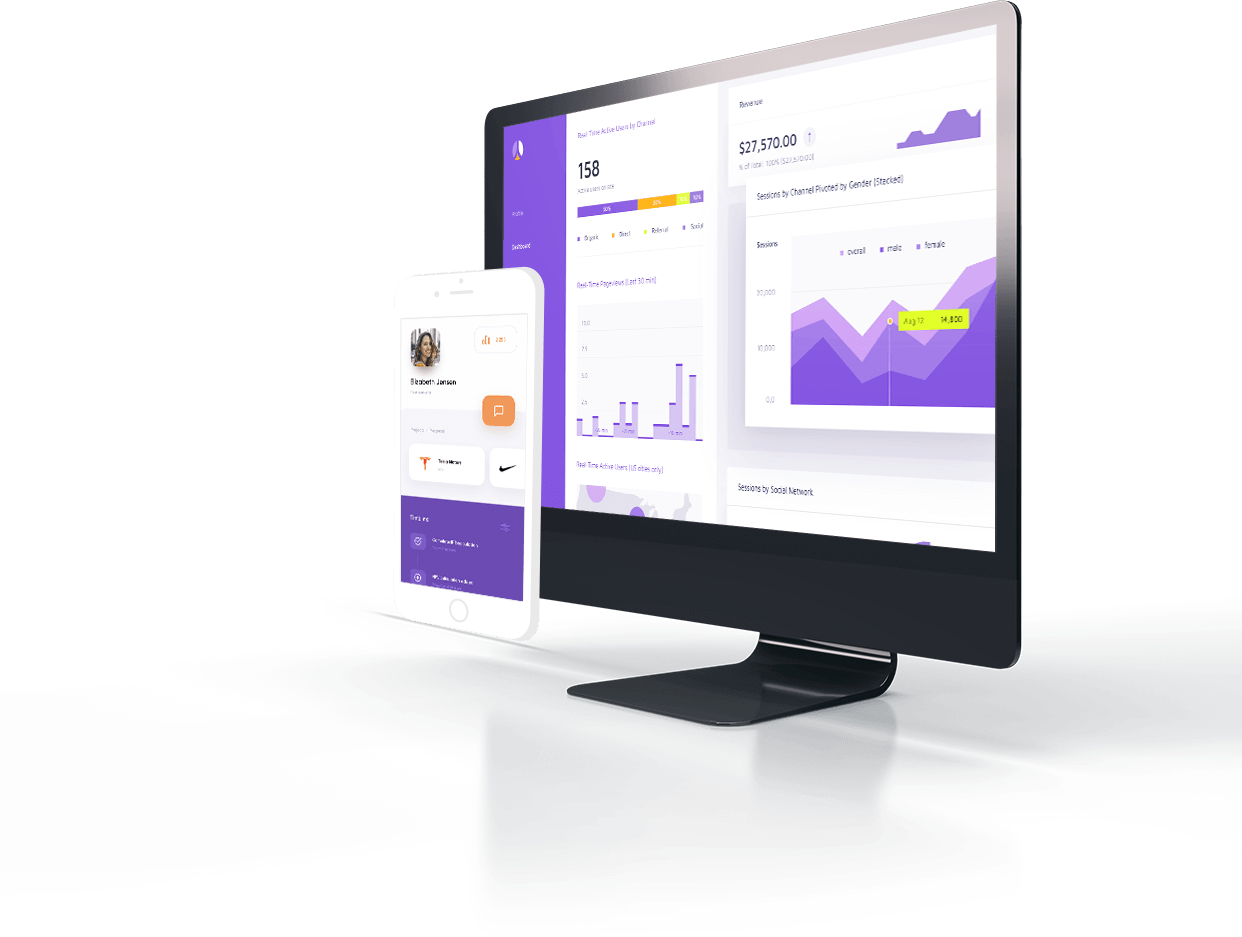
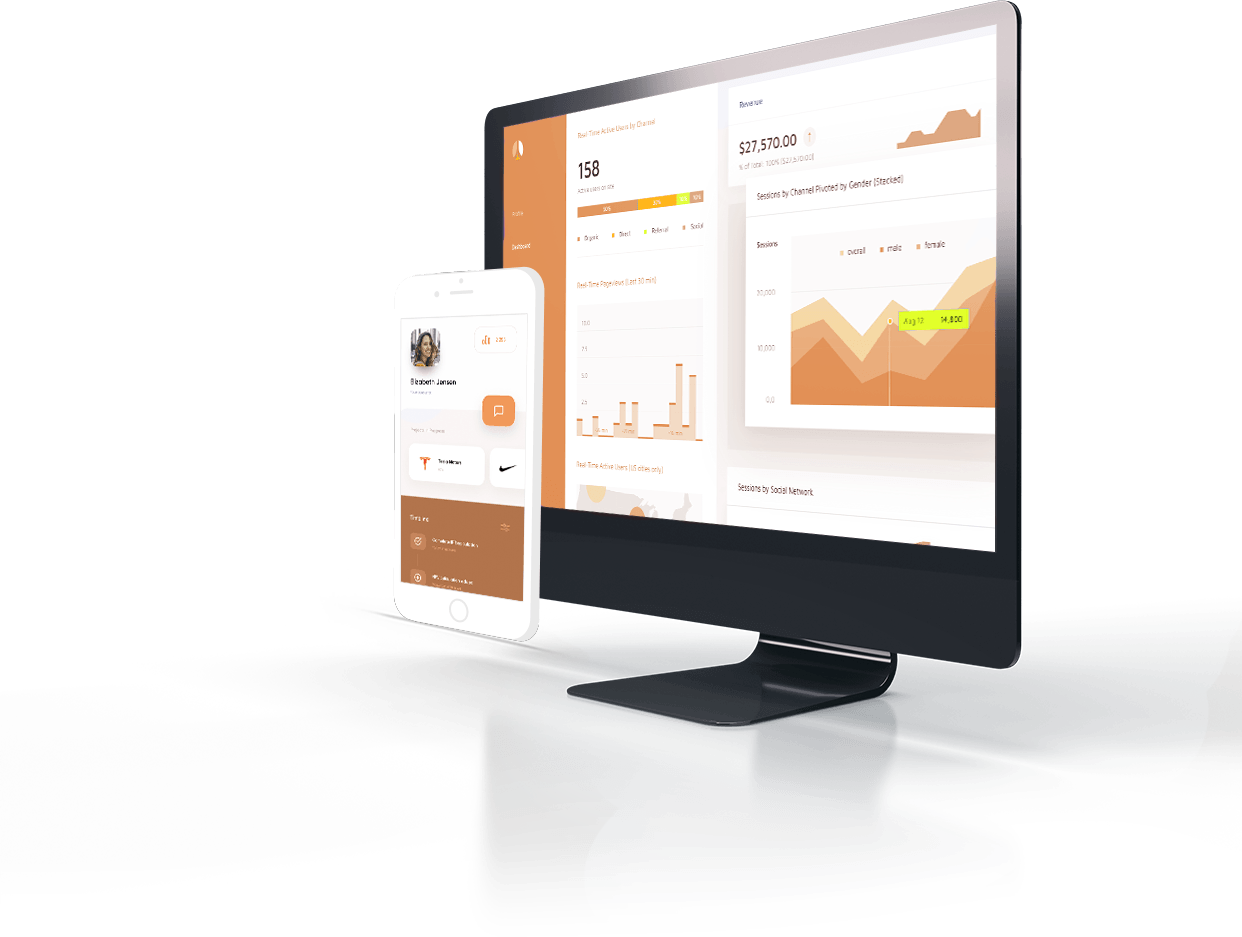
dd

diff --git a/pov-nextjs-main/src/styles/style.css b/pov-nextjs-main/src/styles/style.css
@@ -150,7 +150,7 @@ a:visited {
 }
 .block-title__title {
   margin: 0;
-  margin-top: -10px;
+  /* margin-top: -10px; */
   font-size: 60px;
   font-family: "spartan_mbextrabold";
   letter-spacing: -0.04em;
@@ -162,7 +162,7 @@ a:visited {
   cursor: pointer;
   display: inline-block;
   vertical-align: middle;
-  background-color: #f7c324;
+  background-color: #EDE0D0;
   color: #252758;
   font-size: 14px;
   font-family: "spartan_mbbold";
@@ -173,7 +173,7 @@ a:visited {
   transition: all 0.4s ease;
 }
 .thm-btn:hover {
-  background-color: #252758;
+  background-color: #331c2b;
   color: #fff;
 }
 
@@ -260,7 +260,7 @@ a:visited {
   display: inline-block;
   width: 45px;
   height: 45px;
-  background: #a461e5;
+  background: #331C2B;
   position: fixed;
   bottom: 40px;
   right: 40px;
@@ -371,7 +371,7 @@ a:visited {
 }
 .header-navigation ul.navigation-box > li.current > a,
 .header-navigation ul.navigation-box > li:hover > a {
-  color: #f7c324;
+  color: #eacca6;
 }
 .header-navigation ul.navigation-box > li > .sub-menu {
   position: absolute;
@@ -535,20 +535,21 @@ a:visited {
   left: 0;
   width: 100%;
   z-index: 999;
-  background-image: -webkit-gradient(
+  /* background-image: -webkit-gradient(
     linear,
     left top,
     right top,
     from(#5128c4),
     color-stop(50%, #7541d1),
     to(#b16aeb)
-  );
-  background-image: linear-gradient(
+  ); */
+  /* background-image: linear-gradient(
     90deg,
     #5128c4 0%,
     #7541d1 50%,
     #b16aeb 100%
-  );
+  ); */
+  background-color: #331C2B;
   -webkit-box-shadow: 0px 6px 13px 0px rgba(0, 0, 0, 0.06);
   box-shadow: 0px 6px 13px 0px rgba(0, 0, 0, 0.06);
   opacity: 0;
@@ -572,13 +573,14 @@ a:visited {
 * 4. banner styles
 */
 .banner-one {
-  background: transparent url(/assets/images/banner-1-1.png) top right
-    no-repeat;
+  /* background: transparent url(/assets/images/banner-1-1.png) top right
+    no-repeat; */
   background-size: cover;
   position: relative;
   padding-top: 274px;
   padding-bottom: 515px;
   z-index: 11;
+  background-color: #331C2B;
 }
 .banner-one__globe {
   position: absolute;
@@ -643,7 +645,7 @@ a:visited {
 }
 .banner-one__tag-line a {
   display: inline-block;
-  background-color: #f7c324;
+  background-color: #EDE0D0;
   color: #252758;
   line-height: 32px;
   padding: 0 20px;
@@ -865,20 +867,21 @@ a:visited {
   overflow: hidden;
   border-radius: 15px;
   position: relative;
-  background-image: -webkit-gradient(
+  background-color: #331c2b;
+   /* background-image: -webkit-gradient(
     linear,
     left top,
     right top,
     from(#5128c4),
     color-stop(50%, #7541d1),
     to(#b16aeb)
-  );
+  ); */
   background-image: linear-gradient(
     90deg,
-    #5128c4 0%,
-    #7541d1 50%,
-    #b16aeb 100%
-  );
+    #402c39 0%,
+    #331c2b 50%,
+    #331c2b 100%
+  ); 
 }
 .blog-one__image > img {
   width: 100%;
@@ -940,7 +943,7 @@ a:visited {
 .blog-one__meta-sep,
 .blog-one__meta-link {
   font-size: 14px;
-  color: #a461e5;
+  color: #331c2b;
   font-family: "spartan_mbbold";
   -webkit-transition: all 0.4s ease;
   transition: all 0.4s ease;
@@ -964,7 +967,7 @@ a:visited {
   transition: all 0.4s ease;
 }
 .blog-one__title a:hover {
-  color: #a461e5;
+  color: #331c2b;
 }
 .blog-one__blog-page {
   padding-bottom: 120px;
@@ -1455,7 +1458,7 @@ a:visited {
   content: "";
   width: 755px;
   height: 755px;
-  border: 130px solid #f7c324;
+  border: 130px solid #331C2B;
   position: absolute;
   top: -40%;
   left: 75%;
@@ -1521,12 +1524,12 @@ a:visited {
   font-size: 14px;
 }
 .site-footer__copytext a {
-  color: #a461e5;
+  color: #331c2b;
   -webkit-transition: all 0.4s ease;
   transition: all 0.4s ease;
 }
 .site-footer__copytext a:hover {
-  color: #f7c324;
+  color: #252758;
 }
 .site-footer__social {
   display: -webkit-box;
@@ -1638,8 +1641,9 @@ a:visited {
 * 8. inner-banner styles
 */
 .inner-banner {
-  background: #a461e5 url(/assets/images/inner-banner-bg-1-1.jpg) center
-    center no-repeat;
+  /* background: #a461e5 url(/assets/images/inner-banner-bg-1-1.jpg) center
+    center no-repeat; */
+    background-color: #331C2B;
   background-size: cover;
   padding-top: 220px;
   padding-bottom: 120px;
@@ -1957,20 +1961,14 @@ a:visited {
   left: 0;
   width: 100%;
   height: 100%;
-  background-image: -webkit-gradient(
-    linear,
-    left top,
-    right top,
-    from(#5128c4),
-    color-stop(50%, #7541d1),
-    to(#b16aeb)
-  );
+  background-color: #331C2B;
   background-image: linear-gradient(
     90deg,
-    #5128c4 0%,
-    #7541d1 50%,
-    #b16aeb 100%
-  );
+    #402c39 0%,
+    #331c2b 50%,
+    #331c2b 100%
+  ); 
+  
   border-radius: 50%;
   -webkit-transform: scale(0, 0);
   transform: scale(0, 0);
@@ -2072,8 +2070,9 @@ a:visited {
 * 12. testimonials styles
 */
 .testimonials-one {
-  background: transparent url(/assets/images/testi-bg-1-1.png) bottom left
-    no-repeat;
+  /* background: transparent url(/assets/images/testi-bg-1-1.png) bottom left
+    no-repeat; */
+    background-color: #331C2B;
   background-size: cover;
   padding-top: 600px;
   padding-bottom: 110px;
@@ -2158,7 +2157,7 @@ a:visited {
   margin-right: 17px;
 }
 .testimonials-one__thumb{
-  background-color: white;
+  background-color: #331c2b;
   background-size: cover;
 }
 .testimonials-one__button-block {
@@ -2252,7 +2251,7 @@ width: 210px;
   content: "";
   width: 755px;
   height: 755px;
-  border: 130px solid #f7c324;
+  border: 130px solid #331C2B;
   position: absolute;
   top: -30%;
   right: 85%;
@@ -2289,8 +2288,8 @@ width: 210px;
   z-index: 11;
 }
 .pricing-one__single.popular .pricing-one__btn {
-  background-color: #f7c324;
-  border-color: #f7c324;
+  background-color: #EDE0D0;
+  /* border-color: #331C2B; */
   color: #252758;
 }
 .pricing-one__amount {
@@ -2355,8 +2354,8 @@ width: 210px;
   margin-top: 10px;
 }
 .pricing-one__btn:hover {
-  background-color: #f7c324;
-  border-color: #f7c324;
+  background-color: #EDE0D0;
+  border-color: #331C2B;
   color: #252758;
 }
 .pricing-one__tag-line {
@@ -2400,6 +2399,7 @@ width: 210px;
 * 14. service styles
 */
 .service-one {
+  /* background-color: #EDE0D0; */
   position: relative;
   margin-bottom: -360px;
   z-index: 10;
@@ -2408,7 +2408,7 @@ width: 210px;
   content: "";
   width: 755px;
   height: 755px;
-  border: 130px solid #f7c324;
+  border: 130px solid #331C2B;
   position: absolute;
   top: -40%;
   left: 75%;
@@ -2457,14 +2457,15 @@ width: 210px;
   width: 121px;
   height: 121px;
   border-radius: 50%;
-  background-image: -webkit-gradient(
+  /* background-image: -webkit-gradient(
     linear,
     left top,
     right top,
     from(#5128c4),
     color-stop(50%, #7541d1),
     to(#b16aeb)
-  );
+  ); */
+  /* background-color: #ede0d0; */
   /* background-image: linear-gradient(
     90deg,
     #5128c4 0%,
@@ -2567,7 +2568,7 @@ width: 210px;
 }
 .service-one__btn:hover {
   color: #252758;
-  background-color: #f7c324;
+  background-color: #EDE0D0;
 }
 .service-one__btn:hover:before {
   -webkit-transform: translateX(-50%) scale(0, 1);
